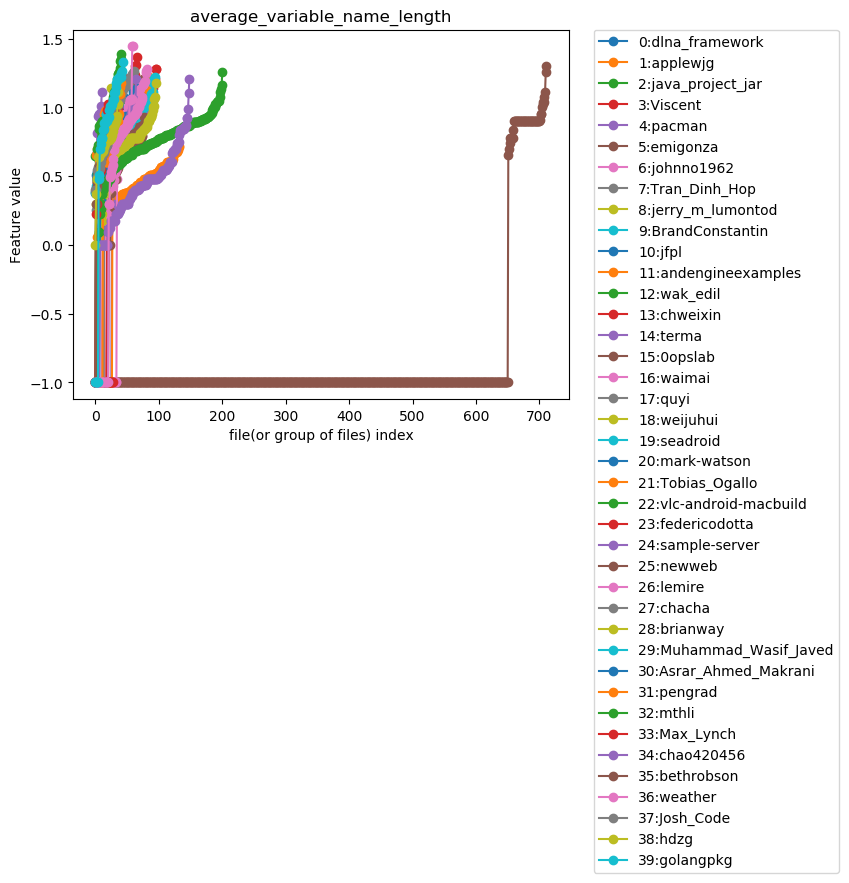
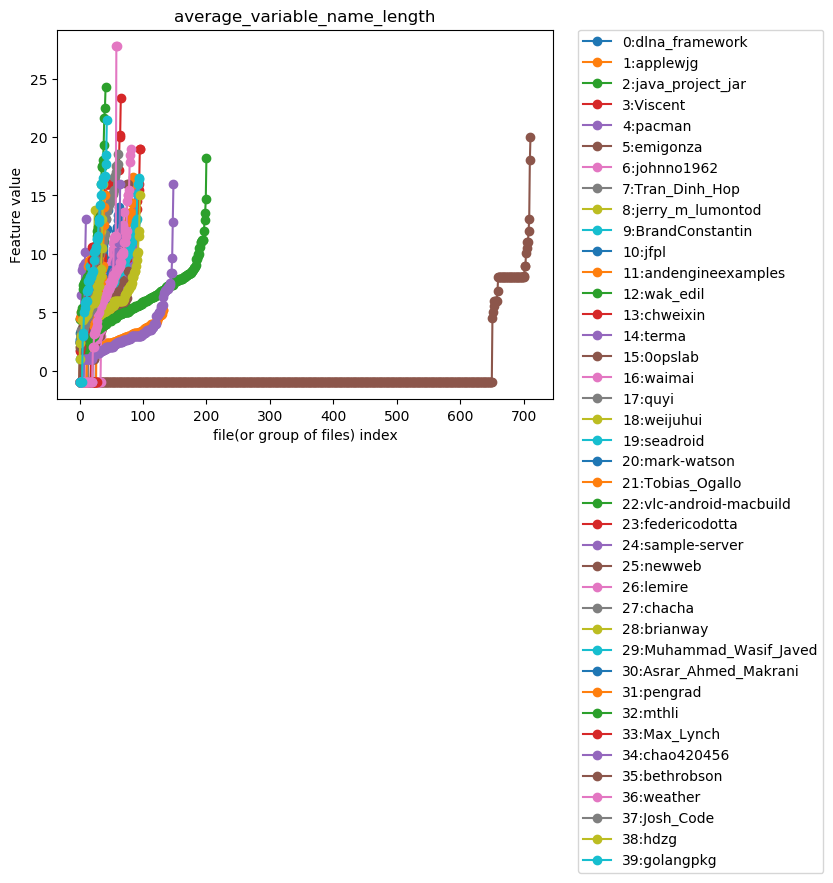
log10 only from 5th metric is 72% accuracy. Sounds good. Now questions: 1. -1 or 1 or mean? 2. normalization to standard normal dist? 3. hyperparameter optimization?

diff --git a/psob_authorship/experiment/one_split_fit.py b/psob_authorship/experiment/one_split_fit.py
@@ -13,11 +13,10 @@ from psob_authorship.model.Model import Model
 
 CONFIG = {
     'experiment_name': os.path.basename(__file__).split('.')[0],
-    'experiment_notes': "change: returned to previous config, now erased 5th metric to see if log10 does not make "
-                        "worse other metrics",
+    'experiment_notes': "change: log10 only from 5th metric",
     'number_of_authors': 40,
     'labels_features_common_name': "../calculated_features/extracted_for_each_file",
-    'metrics': [0, 1, 2, 3, 4, 6, 7, 8, 9, 10, 11, 12, 13, 14, 15, 16, 17, 18],
+    'metrics': [0, 1, 2, 3, 4, 5, 6, 7, 8, 9, 10, 11, 12, 13, 14, 15, 16, 17, 18],
     'epochs': 5000,
     'batch_size': 32,
     'early_stopping_rounds': 350,

diff --git a/psob_authorship/features/utils.py b/psob_authorship/features/utils.py
@@ -52,7 +52,7 @@ def divide_ratio_with_handling_zero_division(numerator, denominator, logger: log
 
 
 def divide_nonnegative_with_handling_zero_division(numerator, denominator, logger: logging.Logger,
-                                                   log_information, take_log10=True, log_from_zero=-100.0,
+                                                   log_information, take_log10=False, log_from_zero=-100.0,
                                                    zero_division_return=-1.0):
     result = divide_with_handling_zero_division(numerator, denominator, logger,
                                                 log_information, (0, float("inf")), zero_division_return)

diff --git a/psob_authorship/features/java/character_metrics/CharacterMetricsCalculator.py b/psob_authorship/features/java/character_metrics/CharacterMetricsCalculator.py
@@ -61,7 +61,8 @@ class CharacterMetricsCalculator:
             sum([self.character_number_for_file[filepath] for filepath in filepaths]),
             len(filepaths),
             self.LOGGER,
-            "calculating average character number per java file for " + str(filepaths)
+            "calculating average character number per java file for " + str(filepaths),
+            take_log10=True
         )
 
     OPEN_BRACE = '{'
